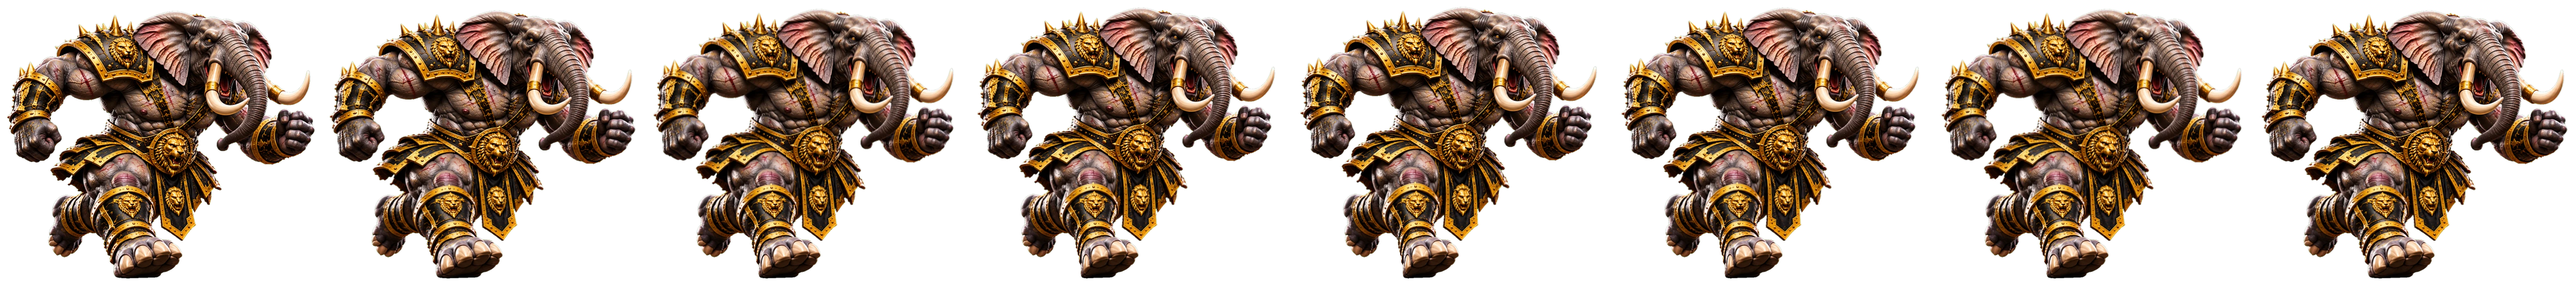
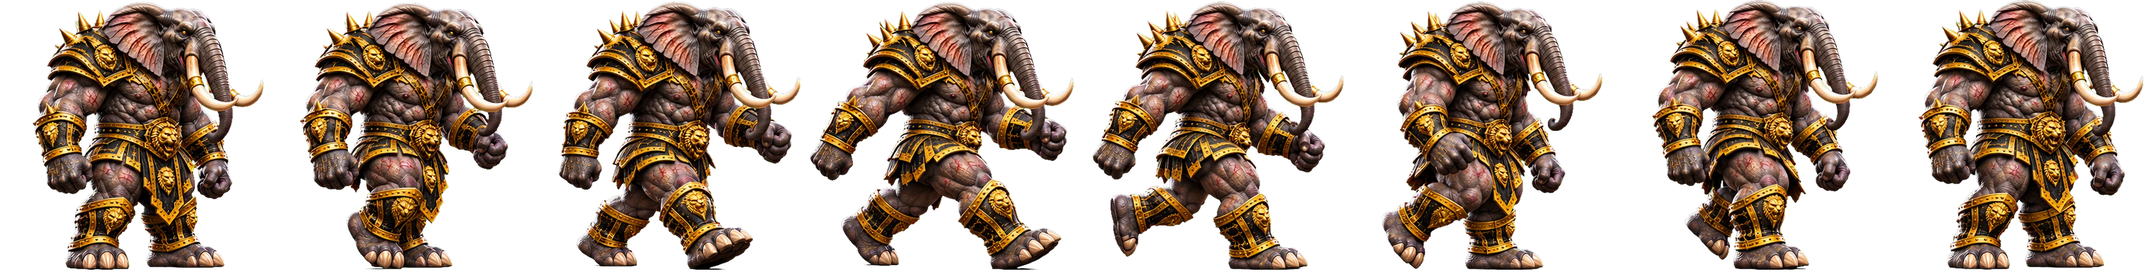
V2 preview 10.32: elephant upgraded moves (not live)
Claude-Session: https://claude.ai/code/session_01Wp8cgZvzavvyA9CxcdgKRp

diff --git a/game/js/sprites-hd.js b/game/js/sprites-hd.js
@@ -1,2 +1,2 @@
 // High-detail fighter frames (frames-hd/), used on large/sharp screens. Same layout as SPRITES.
-const SPRITES_HD={"badger":{"s":2.0,"anims":{"idle":[16,363,425,20,211],"walk_forward":[8,301,413,70,205],"walk_back":[8,301,413,70,205],"run":[8,301,413,70,205],"block":[6,374,428,21,212],"attack_light":[8,423,419,103,208],"bite":[8,364,423,92,210],"claw_swipe":[6,423,419,103,208],"attack_heavy":[8,375,518,92,257],"uppercut":[8,423,419,103,208],"pounce":[8,364,423,92,210],"special_earth_slam":[7,375,518,92,257],"shadow_rampage":[10,423,419,103,208],"victory":[8,283,476,70,236],"jump":[7,370,409,96,203],"crouch":[4,370,409,96,203],"hit_light":[4,363,423,20,210],"hit_heavy":[6,363,423,20,210],"knockdown":[9,586,417,85,207],"knockdown_getup":[6,339,413,86,205],"defeat":[5,586,417,85,207]}},"crocodile":{"s":2.0,"anims":{"idle":[16,658,534,187,264],"walk_forward":[8,608,531,178,263],"walk_back":[8,608,531,178,263],"run":[8,608,531,178,263],"block":[6,617,527,168,261],"attack_light":[8,751,527,215,261],"bite":[8,682,533,187,264],"special_pounce":[6,751,527,215,261],"attack_heavy":[8,848,567,214,281],"uppercut":[7,848,567,214,281],"victory":[8,559,554,150,274],"jump":[7,794,476,233,235],"hit_light":[4,653,531,187,263],"hit_heavy":[6,653,531,187,263],"knockdown":[9,975,530,141,263],"knockdown_getup":[6,1340,513,355,254],"defeat":[5,975,530,141,263]}},"elephant":{"s":2.0,"anims":{"idle":[16,725,684,177,339],"walk_forward":[8,788,690,175,341],"walk_back":[8,788,690,175,341],"run":[8,788,690,175,341],"block":[6,717,696,179,344],"attack_light":[8,1010,683,214,338],"bite":[8,768,683,185,338],"special_pounce":[6,1010,683,214,338],"attack_heavy":[8,1018,727,253,360],"uppercut":[7,1018,727,253,360],"victory":[8,768,683,185,338],"jump":[7,717,696,179,344],"hit_light":[4,724,682,178,337],"hit_heavy":[6,724,682,178,337],"knockdown":[9,1092,696,385,345],"knockdown_getup":[6,1092,696,385,345],"defeat":[5,1092,696,385,345]}},"grizzly":{"s":2.0,"anims":{"idle":[16,484,632,126,314],"walk_forward":[8,529,619,141,307],"walk_back":[8,529,619,141,307],"run":[8,529,619,141,307],"block":[6,518,624,129,310],"attack_light":[8,587,631,161,313],"bite":[8,511,630,132,313],"special_pounce":[6,587,631,161,313],"attack_heavy":[8,861,616,203,306],"uppercut":[7,861,616,203,306],"victory":[8,549,640,138,318],"jump":[7,728,597,190,296],"hit_light":[4,485,629,127,312],"hit_heavy":[6,485,629,127,312],"knockdown":[9,804,634,94,315],"knockdown_getup":[6,809,616,204,306],"defeat":[5,804,634,94,315]}},"hippo":{"s":2.0,"anims":{"idle":[16,743,653,181,323],"walk_forward":[8,458,633,110,313],"walk_back":[8,458,633,110,313],"run":[8,458,633,110,313],"block":[6,684,640,170,316],"attack_light":[8,1009,649,213,321],"bite":[8,788,652,189,323],"special_pounce":[6,1009,649,213,321],"attack_heavy":[8,571,745,156,369],"uppercut":[7,571,745,156,369],"victory":[8,486,742,120,368],"jump":[7,532,648,126,320],"hit_light":[4,747,650,184,322],"hit_heavy":[6,747,650,184,322],"knockdown":[9,1058,681,164,338],"knockdown_getup":[6,552,632,123,312],"defeat":[5,1058,681,164,338]}},"hyena":{"s":2.0,"anims":{"idle":[16,337,491,83,243],"walk_forward":[8,389,479,93,238],"walk_back":[8,389,479,93,238],"run":[8,389,479,93,238],"block":[6,400,486,100,241],"attack_light":[8,451,479,112,238],"bite":[8,355,489,87,243],"special_pounce":[6,355,489,87,243],"attack_heavy":[8,484,526,132,261],"uppercut":[7,451,479,112,238],"victory":[8,418,492,106,244],"jump":[7,482,519,121,257],"hit_light":[4,338,488,84,242],"hit_heavy":[6,338,488,84,242],"knockdown":[9,633,490,78,243],"knockdown_getup":[6,565,478,121,237],"defeat":[5,633,490,78,243]}},"jaguar":{"s":2.0,"anims":{"idle":[16,539,506,129,251],"walk_forward":[8,406,473,72,234],"walk_back":[8,406,473,72,234],"run":[8,406,473,72,234],"block":[6,354,501,25,248],"attack_light":[8,483,488,131,242],"bite":[8,558,504,129,250],"special_pounce":[6,483,488,131,242],"attack_heavy":[8,581,421,132,208],"uppercut":[7,581,421,132,208],"victory":[8,558,504,129,250],"jump":[7,354,501,25,248],"hit_light":[4,537,504,128,250],"hit_heavy":[6,537,504,128,250],"knockdown":[9,719,518,244,257],"knockdown_getup":[6,719,518,244,257],"defeat":[5,719,518,244,257]}},"leopard":{"s":2.0,"anims":{"idle":[16,471,515,22,255],"walk_forward":[8,307,485,87,240],"walk_back":[8,307,485,87,240],"run":[8,307,485,87,240],"dash":[4,307,485,87,240],"crouch":[3,428,517,102,256],"block":[6,443,509,31,253],"attack_light":[8,482,494,122,245],"bite":[8,482,514,22,255],"special_pounce":[6,482,494,122,245],"special_b":[8,482,514,22,255],"special_c":[5,482,494,122,245],"special_d":[14,482,494,122,245],"ultra_move":[5,452,555,97,276],"attack_heavy":[8,452,555,97,276],"uppercut":[7,452,555,97,276],"victory":[8,375,543,102,269],"jump":[7,428,517,102,256],"hit_light":[4,470,513,22,255],"hit_heavy":[6,470,513,22,255],"knockdown":[9,868,555,240,276],"knockdown_getup":[6,432,450,101,223],"defeat":[5,868,555,240,276]}},"lion":{"s":2.0,"anims":{"idle":[16,386,563,98,271],"walk_forward":[8,349,525,100,261],"walk_back":[8,349,525,100,261],"run":[8,349,525,100,261],"block":[6,382,412,96,204],"attack_light":[8,740,471,151,234],"bite":[8,740,471,151,234],"special_pounce":[6,740,471,151,234],"attack_heavy":[8,465,593,101,295],"uppercut":[7,465,593,101,295],"victory":[8,430,596,105,296],"jump":[7,521,546,122,271],"hit_light":[4,367,533,94,265],"hit_heavy":[6,367,533,94,265],"knockdown":[9,694,536,268,267],"knockdown_getup":[6,468,525,132,261],"defeat":[5,694,536,268,267]}},"tiger":{"s":2.0,"anims":{"idle":[16,499,538,126,267],"walk_forward":[8,508,526,125,261],"walk_back":[8,508,526,125,261],"run":[8,508,526,125,261],"block":[6,483,530,120,263],"attack_light":[8,520,524,132,260],"bite":[8,518,537,127,266],"special_pounce":[6,520,524,132,260],"attack_heavy":[8,713,548,164,272],"uppercut":[7,713,548,164,272],"victory":[8,459,544,114,270],"jump":[7,623,588,160,292],"hit_light":[4,496,536,126,266],"hit_heavy":[6,496,536,126,266],"knockdown":[9,750,543,261,270],"knockdown_getup":[6,600,526,141,261],"defeat":[5,750,543,261,270]}},"wolf":{"s":2.0,"anims":{"idle":[16,409,498,107,247],"walk_forward":[8,423,498,110,247],"walk_back":[8,423,498,110,247],"run":[8,423,498,110,247],"block":[6,404,490,104,244],"attack_light":[8,445,398,123,197],"bite":[8,447,340,119,168],"special_pounce":[6,447,340,119,168],"attack_heavy":[8,600,459,134,228],"uppercut":[7,600,459,134,228],"victory":[8,416,505,100,251],"jump":[7,563,416,136,206],"hit_light":[4,404,497,104,247],"hit_heavy":[6,404,497,104,247],"knockdown":[9,670,503,243,250],"knockdown_getup":[6,387,488,99,242],"defeat":[5,670,503,243,250]}},"majic":{"s":2.0,"anims":{"idle":[16,742,799,187,396],"walk_forward":[8,818,805,185,399],"walk_back":[8,818,805,185,399],"run":[8,818,805,185,399],"dash":[4,818,805,185,399],"crouch":[3,783,702,200,348],"block":[6,739,792,62,393],"attack_light":[8,808,714,216,354],"bite":[8,773,798,193,396],"special_pounce":[6,773,798,193,396],"special_b":[6,808,714,216,354],"special_c":[5,773,798,193,396],"special_d":[5,749,763,180,379],"ultra_move":[10,808,714,216,354],"attack_heavy":[8,749,763,180,379],"uppercut":[7,749,763,180,379],"victory":[8,823,812,205,403],"jump":[7,783,702,200,348],"hit_light":[4,746,795,190,395],"hit_heavy":[6,746,795,190,395],"knockdown":[9,1082,819,398,407],"knockdown_getup":[6,793,780,206,387],"defeat":[5,1082,819,398,407]}},"snake":{"s":2.0,"anims":{"idle":[16,498,552,122,274],"walk_forward":[8,525,525,147,261],"walk_back":[8,525,525,147,261],"run":[8,525,525,147,261],"crouch":[3,533,495,126,245],"block":[6,469,547,25,272],"attack_light":[8,532,537,123,267],"bite":[8,498,551,122,274],"special_pounce":[6,498,551,122,274],"special_b":[6,532,537,123,267],"special_c":[5,498,551,122,274],"special_d":[5,600,546,143,271],"ultra_move":[10,532,537,123,267],"attack_heavy":[8,600,546,143,271],"uppercut":[7,600,546,143,271],"victory":[8,412,570,105,283],"jump":[7,533,495,126,245],"hit_light":[4,498,550,122,273],"hit_heavy":[6,498,550,122,273],"knockdown":[9,778,548,271,272],"knockdown_getup":[6,609,538,125,267],"defeat":[5,778,548,271,272]}},"eagle":{"s":2.0,"anims":{"idle":[16,486,526,121,261],"walk_forward":[8,501,514,100,255],"walk_back":[8,501,514,100,255],"run":[8,501,514,100,255],"crouch":[3,681,479,179,237],"block":[6,483,520,108,258],"attack_light":[8,500,526,124,261],"bite":[8,502,525,125,260],"special_pounce":[6,502,525,125,260],"special_b":[6,500,526,124,261],"ultra_move":[10,500,526,124,261],"attack_heavy":[8,603,494,151,245],"uppercut":[7,603,494,151,245],"victory":[8,550,541,139,269],"jump":[7,681,479,179,237],"hit_light":[4,487,522,122,259],"hit_heavy":[6,487,522,122,259],"knockdown":[9,692,536,255,266],"knockdown_getup":[6,480,513,99,255],"defeat":[5,692,536,255,266]}},"stag":{"s":2.0,"anims":{"idle":[16,341,572,85,283],"walk_forward":[8,450,569,111,282],"walk_back":[8,450,569,111,282],"run":[8,450,569,111,282],"crouch":[3,543,734,154,365],"block":[6,453,553,113,274],"attack_light":[8,539,540,118,268],"bite":[8,358,571,85,283],"special_pounce":[6,358,571,85,283],"special_b":[6,539,540,118,268],"special_c":[5,358,571,85,283],"special_d":[5,453,612,113,304],"ultra_move":[10,539,540,118,268],"attack_heavy":[8,453,612,113,304],"uppercut":[7,453,612,113,304],"victory":[8,512,565,127,280],"jump":[7,543,734,154,365],"hit_light":[4,341,570,85,282],"hit_heavy":[6,341,570,85,282],"knockdown":[9,734,584,285,290],"knockdown_getup":[6,507,558,164,277],"defeat":[5,734,584,285,290]}}};
+const SPRITES_HD={"badger":{"s":2.0,"anims":{"idle":[16,363,425,20,211],"walk_forward":[8,301,413,70,205],"walk_back":[8,301,413,70,205],"run":[8,301,413,70,205],"block":[6,374,428,21,212],"attack_light":[8,423,419,103,208],"bite":[8,364,423,92,210],"claw_swipe":[6,423,419,103,208],"attack_heavy":[8,375,518,92,257],"uppercut":[8,423,419,103,208],"pounce":[8,364,423,92,210],"special_earth_slam":[7,375,518,92,257],"shadow_rampage":[10,423,419,103,208],"victory":[8,283,476,70,236],"jump":[7,370,409,96,203],"crouch":[4,370,409,96,203],"hit_light":[4,363,423,20,210],"hit_heavy":[6,363,423,20,210],"knockdown":[9,586,417,85,207],"knockdown_getup":[6,339,413,86,205],"defeat":[5,586,417,85,207]}},"crocodile":{"s":2.0,"anims":{"idle":[16,658,534,187,264],"walk_forward":[8,608,531,178,263],"walk_back":[8,608,531,178,263],"run":[8,608,531,178,263],"block":[6,617,527,168,261],"attack_light":[8,751,527,215,261],"bite":[8,682,533,187,264],"special_pounce":[6,751,527,215,261],"attack_heavy":[8,848,567,214,281],"uppercut":[7,848,567,214,281],"victory":[8,559,554,150,274],"jump":[7,794,476,233,235],"hit_light":[4,653,531,187,263],"hit_heavy":[6,653,531,187,263],"knockdown":[9,975,530,141,263],"knockdown_getup":[6,1340,513,355,254],"defeat":[5,975,530,141,263]}},"elephant":{"s":2.0,"anims":{"idle":[16,725,684,177,339],"walk_forward":[8,659,667,168,330],"walk_back":[8,659,667,168,330],"run":[8,659,667,168,330],"block":[6,717,696,179,344],"attack_light":[8,1010,683,214,338],"bite":[8,768,683,185,338],"special_pounce":[6,1010,683,214,338],"attack_heavy":[8,871,666,221,329],"uppercut":[7,871,666,221,329],"victory":[8,625,677,157,335],"jump":[7,764,649,183,321],"hit_light":[4,724,682,178,337],"hit_heavy":[6,724,682,178,337],"knockdown":[9,1092,696,385,345],"knockdown_getup":[6,823,663,217,328],"defeat":[5,1092,696,385,345]}},"grizzly":{"s":2.0,"anims":{"idle":[16,484,632,126,314],"walk_forward":[8,529,619,141,307],"walk_back":[8,529,619,141,307],"run":[8,529,619,141,307],"block":[6,518,624,129,310],"attack_light":[8,587,631,161,313],"bite":[8,511,630,132,313],"special_pounce":[6,587,631,161,313],"attack_heavy":[8,861,616,203,306],"uppercut":[7,861,616,203,306],"victory":[8,549,640,138,318],"jump":[7,728,597,190,296],"hit_light":[4,485,629,127,312],"hit_heavy":[6,485,629,127,312],"knockdown":[9,804,634,94,315],"knockdown_getup":[6,809,616,204,306],"defeat":[5,804,634,94,315]}},"hippo":{"s":2.0,"anims":{"idle":[16,743,653,181,323],"walk_forward":[8,458,633,110,313],"walk_back":[8,458,633,110,313],"run":[8,458,633,110,313],"block":[6,684,640,170,316],"attack_light":[8,1009,649,213,321],"bite":[8,788,652,189,323],"special_pounce":[6,1009,649,213,321],"attack_heavy":[8,571,745,156,369],"uppercut":[7,571,745,156,369],"victory":[8,486,742,120,368],"jump":[7,532,648,126,320],"hit_light":[4,747,650,184,322],"hit_heavy":[6,747,650,184,322],"knockdown":[9,1058,681,164,338],"knockdown_getup":[6,552,632,123,312],"defeat":[5,1058,681,164,338]}},"hyena":{"s":2.0,"anims":{"idle":[16,337,491,83,243],"walk_forward":[8,389,479,93,238],"walk_back":[8,389,479,93,238],"run":[8,389,479,93,238],"block":[6,400,486,100,241],"attack_light":[8,451,479,112,238],"bite":[8,355,489,87,243],"special_pounce":[6,355,489,87,243],"attack_heavy":[8,484,526,132,261],"uppercut":[7,451,479,112,238],"victory":[8,418,492,106,244],"jump":[7,482,519,121,257],"hit_light":[4,338,488,84,242],"hit_heavy":[6,338,488,84,242],"knockdown":[9,633,490,78,243],"knockdown_getup":[6,565,478,121,237],"defeat":[5,633,490,78,243]}},"jaguar":{"s":2.0,"anims":{"idle":[16,539,506,129,251],"walk_forward":[8,406,473,72,234],"walk_back":[8,406,473,72,234],"run":[8,406,473,72,234],"block":[6,354,501,25,248],"attack_light":[8,483,488,131,242],"bite":[8,558,504,129,250],"special_pounce":[6,483,488,131,242],"attack_heavy":[8,581,421,132,208],"uppercut":[7,581,421,132,208],"victory":[8,558,504,129,250],"jump":[7,354,501,25,248],"hit_light":[4,537,504,128,250],"hit_heavy":[6,537,504,128,250],"knockdown":[9,719,518,244,257],"knockdown_getup":[6,719,518,244,257],"defeat":[5,719,518,244,257]}},"leopard":{"s":2.0,"anims":{"idle":[16,471,515,22,255],"walk_forward":[8,307,485,87,240],"walk_back":[8,307,485,87,240],"run":[8,307,485,87,240],"dash":[4,307,485,87,240],"crouch":[3,428,517,102,256],"block":[6,443,509,31,253],"attack_light":[8,482,494,122,245],"bite":[8,482,514,22,255],"special_pounce":[6,482,494,122,245],"special_b":[8,482,514,22,255],"special_c":[5,482,494,122,245],"special_d":[14,482,494,122,245],"ultra_move":[5,452,555,97,276],"attack_heavy":[8,452,555,97,276],"uppercut":[7,452,555,97,276],"victory":[8,375,543,102,269],"jump":[7,428,517,102,256],"hit_light":[4,470,513,22,255],"hit_heavy":[6,470,513,22,255],"knockdown":[9,868,555,240,276],"knockdown_getup":[6,432,450,101,223],"defeat":[5,868,555,240,276]}},"lion":{"s":2.0,"anims":{"idle":[16,386,563,98,271],"walk_forward":[8,349,525,100,261],"walk_back":[8,349,525,100,261],"run":[8,349,525,100,261],"block":[6,382,412,96,204],"attack_light":[8,740,471,151,234],"bite":[8,740,471,151,234],"special_pounce":[6,740,471,151,234],"attack_heavy":[8,465,593,101,295],"uppercut":[7,465,593,101,295],"victory":[8,430,596,105,296],"jump":[7,521,546,122,271],"hit_light":[4,367,533,94,265],"hit_heavy":[6,367,533,94,265],"knockdown":[9,694,536,268,267],"knockdown_getup":[6,468,525,132,261],"defeat":[5,694,536,268,267]}},"tiger":{"s":2.0,"anims":{"idle":[16,499,538,126,267],"walk_forward":[8,508,526,125,261],"walk_back":[8,508,526,125,261],"run":[8,508,526,125,261],"block":[6,483,530,120,263],"attack_light":[8,520,524,132,260],"bite":[8,518,537,127,266],"special_pounce":[6,520,524,132,260],"attack_heavy":[8,713,548,164,272],"uppercut":[7,713,548,164,272],"victory":[8,459,544,114,270],"jump":[7,623,588,160,292],"hit_light":[4,496,536,126,266],"hit_heavy":[6,496,536,126,266],"knockdown":[9,750,543,261,270],"knockdown_getup":[6,600,526,141,261],"defeat":[5,750,543,261,270]}},"wolf":{"s":2.0,"anims":{"idle":[16,409,498,107,247],"walk_forward":[8,423,498,110,247],"walk_back":[8,423,498,110,247],"run":[8,423,498,110,247],"block":[6,404,490,104,244],"attack_light":[8,445,398,123,197],"bite":[8,447,340,119,168],"special_pounce":[6,447,340,119,168],"attack_heavy":[8,600,459,134,228],"uppercut":[7,600,459,134,228],"victory":[8,416,505,100,251],"jump":[7,563,416,136,206],"hit_light":[4,404,497,104,247],"hit_heavy":[6,404,497,104,247],"knockdown":[9,670,503,243,250],"knockdown_getup":[6,387,488,99,242],"defeat":[5,670,503,243,250]}},"majic":{"s":2.0,"anims":{"idle":[16,742,799,187,396],"walk_forward":[8,818,805,185,399],"walk_back":[8,818,805,185,399],"run":[8,818,805,185,399],"dash":[4,818,805,185,399],"crouch":[3,783,702,200,348],"block":[6,739,792,62,393],"attack_light":[8,808,714,216,354],"bite":[8,773,798,193,396],"special_pounce":[6,773,798,193,396],"special_b":[6,808,714,216,354],"special_c":[5,773,798,193,396],"special_d":[5,749,763,180,379],"ultra_move":[10,808,714,216,354],"attack_heavy":[8,749,763,180,379],"uppercut":[7,749,763,180,379],"victory":[8,823,812,205,403],"jump":[7,783,702,200,348],"hit_light":[4,746,795,190,395],"hit_heavy":[6,746,795,190,395],"knockdown":[9,1082,819,398,407],"knockdown_getup":[6,793,780,206,387],"defeat":[5,1082,819,398,407]}},"snake":{"s":2.0,"anims":{"idle":[16,498,552,122,274],"walk_forward":[8,525,525,147,261],"walk_back":[8,525,525,147,261],"run":[8,525,525,147,261],"crouch":[3,533,495,126,245],"block":[6,469,547,25,272],"attack_light":[8,532,537,123,267],"bite":[8,498,551,122,274],"special_pounce":[6,498,551,122,274],"special_b":[6,532,537,123,267],"special_c":[5,498,551,122,274],"special_d":[5,600,546,143,271],"ultra_move":[10,532,537,123,267],"attack_heavy":[8,600,546,143,271],"uppercut":[7,600,546,143,271],"victory":[8,412,570,105,283],"jump":[7,533,495,126,245],"hit_light":[4,498,550,122,273],"hit_heavy":[6,498,550,122,273],"knockdown":[9,778,548,271,272],"knockdown_getup":[6,609,538,125,267],"defeat":[5,778,548,271,272]}},"eagle":{"s":2.0,"anims":{"idle":[16,486,526,121,261],"walk_forward":[8,501,514,100,255],"walk_back":[8,501,514,100,255],"run":[8,501,514,100,255],"crouch":[3,681,479,179,237],"block":[6,483,520,108,258],"attack_light":[8,500,526,124,261],"bite":[8,502,525,125,260],"special_pounce":[6,502,525,125,260],"special_b":[6,500,526,124,261],"ultra_move":[10,500,526,124,261],"attack_heavy":[8,603,494,151,245],"uppercut":[7,603,494,151,245],"victory":[8,550,541,139,269],"jump":[7,681,479,179,237],"hit_light":[4,487,522,122,259],"hit_heavy":[6,487,522,122,259],"knockdown":[9,692,536,255,266],"knockdown_getup":[6,480,513,99,255],"defeat":[5,692,536,255,266]}},"stag":{"s":2.0,"anims":{"idle":[16,341,572,85,283],"walk_forward":[8,450,569,111,282],"walk_back":[8,450,569,111,282],"run":[8,450,569,111,282],"crouch":[3,543,734,154,365],"block":[6,453,553,113,274],"attack_light":[8,539,540,118,268],"bite":[8,358,571,85,283],"special_pounce":[6,358,571,85,283],"special_b":[6,539,540,118,268],"special_c":[5,358,571,85,283],"special_d":[5,453,612,113,304],"ultra_move":[10,539,540,118,268],"attack_heavy":[8,453,612,113,304],"uppercut":[7,453,612,113,304],"victory":[8,512,565,127,280],"jump":[7,543,734,154,365],"hit_light":[4,341,570,85,282],"hit_heavy":[6,341,570,85,282],"knockdown":[9,734,584,285,290],"knockdown_getup":[6,507,558,164,277],"defeat":[5,734,584,285,290]}}};

diff --git a/game/js/game.js b/game/js/game.js
@@ -1679,9 +1679,9 @@ const SPRITES={
  crocodile:{s:0.6,anims:{"idle":[16,197,160,187,264],"walk_forward":[8,182,159,178,263],"walk_back":[8,182,159,178,263],"run":[8,182,159,178,263],"block":[6,185,158,168,261],"attack_light":[8,225,158,215,261],"bite":[8,205,160,187,264],"special_pounce":[6,225,158,215,261],"attack_heavy":[8,254,170,214,281],"uppercut":[7,254,170,214,281],"victory":[8,168,166,150,274],"jump":[7,238,143,233,235],"hit_light":[4,196,159,187,263],"hit_heavy":[6,196,159,187,263],"knockdown":[9,292,159,141,263],"knockdown_getup":[6,402,154,355,254],"defeat":[5,292,159,141,263]},
   double:['bite','attack_heavy'],special:'special_pounce',shadow:null,ultra:['bite','attack_heavy','bite','uppercut'],
   fall:['knockdown',[0,1,2,3,4,5]],getup:['knockdown_getup',[0,1,2,3,4,5]],ko:['knockdown',8]},
- elephant:{s:0.6,anims:{"idle":[16,218,205,177,339],"walk_forward":[8,236,207,175,341],"walk_back":[8,236,207,175,341],"run":[8,236,207,175,341],"block":[6,215,209,179,344],"attack_light":[8,303,205,214,338],"bite":[8,230,205,185,338],"special_pounce":[6,303,205,214,338],"attack_heavy":[8,305,218,253,360],"uppercut":[7,305,218,253,360],"victory":[8,230,205,185,338],"jump":[7,215,209,179,344],"hit_light":[4,217,204,178,337],"hit_heavy":[6,217,204,178,337],"knockdown":[9,327,209,385,345],"knockdown_getup":[6,327,209,385,345],"defeat":[5,327,209,385,345]},
+ elephant:{s:0.6,anims:{"idle":[16,218,205,177,339],"walk_forward":[8,198,200,168,330],"walk_back":[8,198,200,168,330],"run":[8,198,200,168,330],"block":[6,215,209,179,344],"attack_light":[8,303,205,214,338],"bite":[8,230,205,185,338],"special_pounce":[6,303,205,214,338],"attack_heavy":[8,261,200,221,329],"uppercut":[7,261,200,221,329],"victory":[8,187,203,157,335],"jump":[7,229,195,183,321],"hit_light":[4,217,204,178,337],"hit_heavy":[6,217,204,178,337],"knockdown":[9,327,209,385,345],"knockdown_getup":[6,247,199,217,328],"defeat":[5,327,209,385,345]},
   double:['attack_heavy','bite'],special:'special_pounce',shadow:null,ultra:['attack_heavy','bite','attack_heavy','uppercut'],
-  fall:['knockdown',[0,1,2,3,4,5]],getup:['knockdown',[7,3,2,1,0]],ko:['knockdown',8]},
+  fall:['knockdown',[0,1,2,3,4,5]],getup:['knockdown_getup',[0,1,2,3,4,5]],ko:['knockdown',8]},
  grizzly:{s:0.6,anims:{"idle":[16,145,190,126,314],"walk_forward":[8,159,186,141,307],"walk_back":[8,159,186,141,307],"run":[8,159,186,141,307],"block":[6,155,187,129,310],"attack_light":[8,176,189,161,313],"bite":[8,153,189,132,313],"special_pounce":[6,176,189,161,313],"attack_heavy":[8,258,185,203,306],"uppercut":[7,258,185,203,306],"victory":[8,165,192,138,318],"jump":[7,218,179,190,296],"hit_light":[4,145,189,127,312],"hit_heavy":[6,145,189,127,312],"knockdown":[9,241,190,94,315],"knockdown_getup":[6,243,185,204,306],"defeat":[5,241,190,94,315]},
   double:['attack_heavy','bite'],special:'special_pounce',shadow:null,ultra:['attack_heavy','attack_heavy','bite','uppercut'],
   fall:['knockdown',[0,1,2,3,4,5]],getup:['knockdown_getup',[0,1,2,3,4,5]],ko:['knockdown',8]},
@@ -1707,11 +1707,11 @@ const SPRITES={
   double:['attack_heavy','attack_light'],special:'special_pounce',shadow:null,ultra:['attack_light','attack_heavy','uppercut','bite'],
   fall:['knockdown',[0,1,2,3,4,5]],getup:['knockdown_getup',[0,1,2,3,4,5]],ko:['knockdown',8]}
 };
-const spriteImg={};for(const id in SPRITES){spriteImg[id]={};for(const k in SPRITES[id].anims){const im=new Image();im.src='assets/characters/'+id+'/frames/'+k+'.webp?v=10.31';spriteImg[id][k]=im}}
+const spriteImg={};for(const id in SPRITES){spriteImg[id]={};for(const k in SPRITES[id].anims){const im=new Image();im.src='assets/characters/'+id+'/frames/'+k+'.webp?v=10.32';spriteImg[id][k]=im}}
 // High-detail art for big, sharp screens (laptops, TVs, 4K): loaded per fight, only for the two fighters in it.
 const HD=typeof SPRITES_HD!=='undefined'?SPRITES_HD:{},spriteHD={};
 function wantHD(){const r=$('game-canvas').getBoundingClientRect(),d=Math.min(window.devicePixelRatio||1,3);return r.height*d>=560}
-function loadHD(id){if(!HD[id]||spriteHD[id])return;spriteHD[id]={};for(const k in HD[id].anims){const im=new Image();im.decoding='async';im.src='assets/characters/'+id+'/frames-hd/'+k+'.webp?v=10.31';spriteHD[id][k]=im}}
+function loadHD(id){if(!HD[id]||spriteHD[id])return;spriteHD[id]={};for(const k in HD[id].anims){const im=new Image();im.decoding='async';im.src='assets/characters/'+id+'/frames-hd/'+k+'.webp?v=10.32';spriteHD[id][k]=im}}
 const c=$('game-canvas').getContext('2d');
 function draw(){
  const canvas=$('game-canvas'),rect=canvas.getBoundingClientRect(),dpr=Math.min(window.devicePixelRatio||1,3),w=1100,h=520;

diff --git a/game/index.html b/game/index.html
@@ -17,7 +17,7 @@
   s.addEventListener('pointerdown',go);addEventListener('keydown',function(e){if(!done){go(e)}},{capture:true,once:true});(function pad(){if(done)return;var g=navigator.getGamepads?[].slice.call(navigator.getGamepads()):[];if(g.some(function(x){return x&&x.buttons.some(function(b){return b.pressed})})){go();return}requestAnimationFrame(pad)})()})();</script>
   <div id="backdrop" aria-hidden="true"><div class="bd-img bd-a"></div><div class="bd-img bd-b"></div><div class="bd-rays"></div><div class="bd-vignette"></div><canvas id="bd-embers"></canvas></div>
   <main id="app">
-    <header class="topbar"><img class="brand-crown" src="assets/ui/crown.webp" alt=""><div><div class="eyebrow">A LEGACY UNLEASHED</div><h1>KING OF THE JUNGLE</h1></div><div class="build-tag">V2 PREVIEW · 10.31 (not live)</div></header>
+    <header class="topbar"><img class="brand-crown" src="assets/ui/crown.webp" alt=""><div><div class="eyebrow">A LEGACY UNLEASHED</div><h1>KING OF THE JUNGLE</h1></div><div class="build-tag">V2 PREVIEW · 10.32 (not live)</div></header>
     <section id="menu" class="screen cover">
       <div class="cover-bg"></div><div class="cover-rays"></div><canvas id="embers" class="cover-embers"></canvas><div class="cover-vignette"></div>
       <div class="cover-hero"><div class="hero-glow"></div><img src="assets/characters/lion/lion-hero.webp" alt="The Lion, King of the Jungle"></div>
@@ -42,7 +42,7 @@
         </div>
       </div>
       <div class="cover-roster"><span>11 FIGHTERS · ONE THRONE</span><div id="cover-faces"></div></div>
-      <div class="cover-meta"><span id="cover-build">V2 PREVIEW · 10.31 (not live)</span><span>© King of the Jungle · J. Hardy</span></div>
+      <div class="cover-meta"><span id="cover-build">V2 PREVIEW · 10.32 (not live)</span><span>© King of the Jungle · J. Hardy</span></div>
     </section>
     <section id="select" class="screen hidden v2sel">
       <div class="select-title"><img class="st-crown" src="assets/ui/crown.webp" alt=""><h2 class="st-main">KING <small>OF THE</small> JUNGLE</h2><p class="st-sub">CHARACTER SELECT</p><p id="select-instruction">Player 1: choose a fighter</p></div>
@@ -114,7 +114,7 @@
     </section>
     <footer><span>© KING OF THE JUNGLE</span><span>Created and Developed by J. Hardy</span></footer>
   </main>
-  <script src="js/roster.js?v=7.1"></script><script src="js/story.js?v=7.7"></script><script src="js/sprites-hd.js?v=10.31"></script><script src="js/audio.js?v=9.12"></script><script src="js/hitboxes.js?v=8.0"></script><script src="js/net.js?v=7.1"></script><script src="js/game.js?v=10.31"></script>
+  <script src="js/roster.js?v=7.1"></script><script src="js/story.js?v=7.7"></script><script src="js/sprites-hd.js?v=10.32"></script><script src="js/audio.js?v=9.12"></script><script src="js/hitboxes.js?v=8.0"></script><script src="js/net.js?v=7.1"></script><script src="js/game.js?v=10.32"></script>
 <script>(function(){var last=0;
 document.addEventListener('gesturestart',function(e){e.preventDefault()},{passive:false});
 document.addEventListener('gesturechange',function(e){e.preventDefault()},{passive:false});
